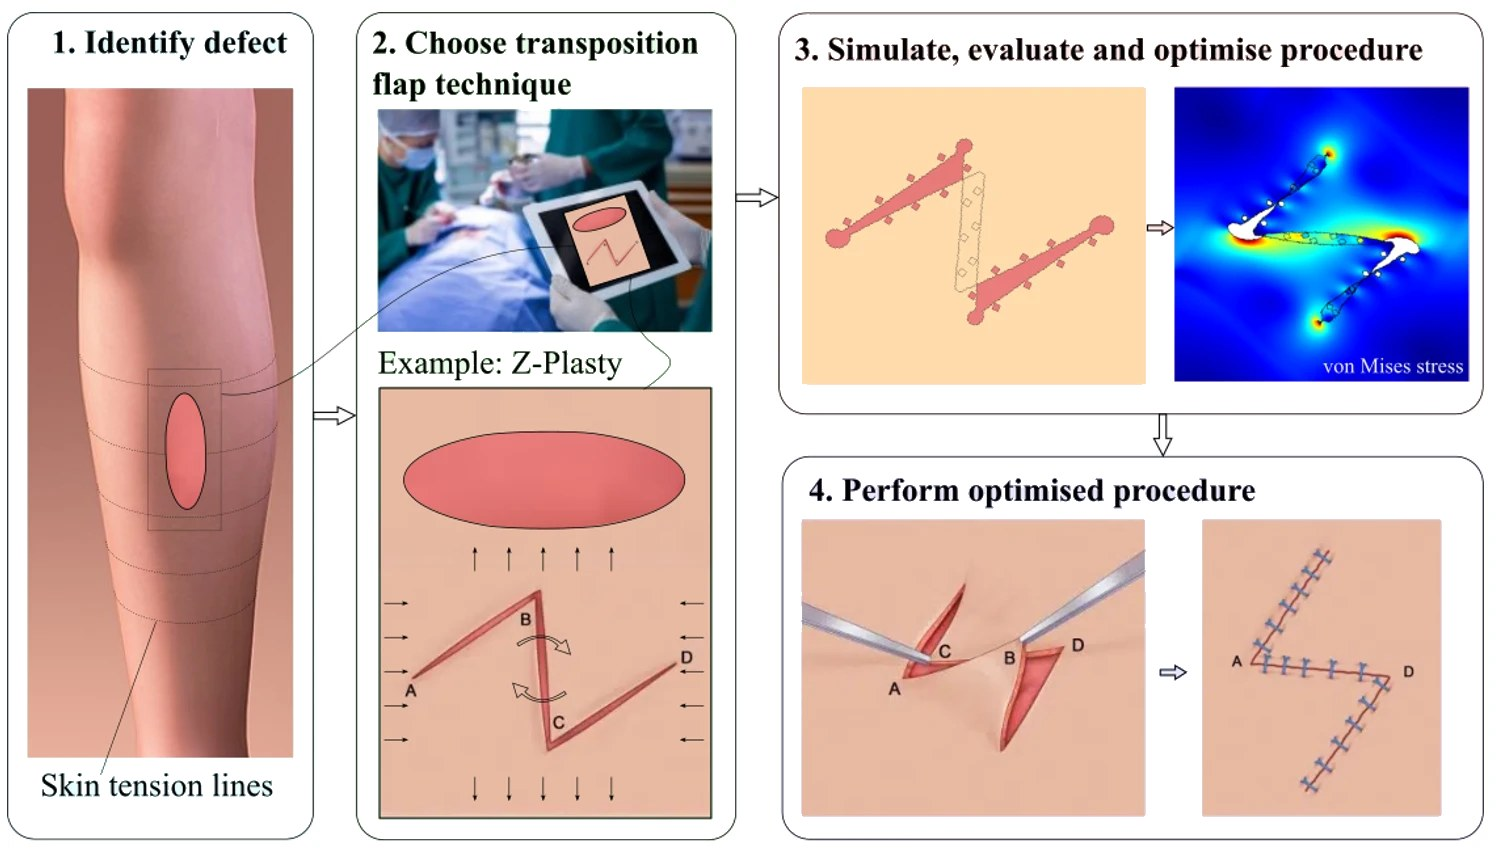
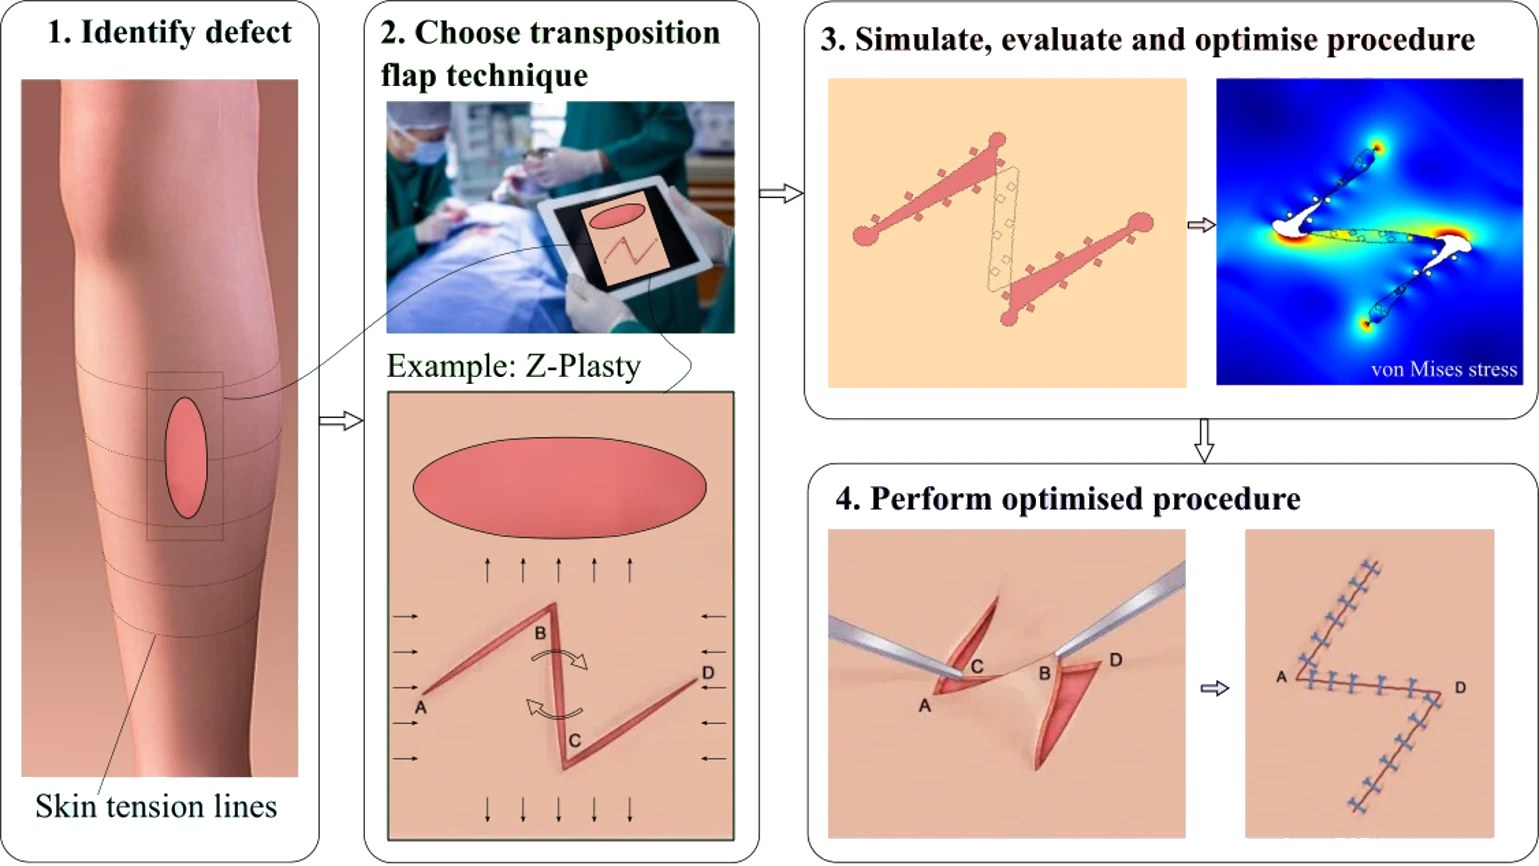
Deploy Homepage@979692c

diff --git a/js/site.js b/js/site.js
@@ -37,6 +37,15 @@ function hero(el) {
   dots.forEach((d, k) => d.onclick = () => show(k));
   $(".prev", el).onclick = () => show(cur - 1);
   $(".next", el).onclick = () => show(cur + 1);
+  // Touch: horizontal swipe changes slide (arrows only appear on hover)
+  let x0, y0;
+  el.addEventListener("touchstart", e => { x0 = e.touches[0].clientX; y0 = e.touches[0].clientY; }, { passive: true });
+  el.addEventListener("touchend", e => {
+    if (x0 == null) return;
+    const dx = e.changedTouches[0].clientX - x0, dy = e.changedTouches[0].clientY - y0;
+    if (Math.abs(dx) > 40 && Math.abs(dx) > Math.abs(dy)) show(cur + (dx < 0 ? 1 : -1));
+    x0 = null;
+  }, { passive: true });
   show(0);
 }
 

diff --git a/css/style.css b/css/style.css
@@ -33,7 +33,7 @@ img, video { display: block; width: 100%; height: auto; }
 .nav a:hover, .nav a[aria-current] { color: var(--ink); }
 
 /* Home: full-screen crossfading slideshow */
-.hero { position: relative; height: calc(100svh - var(--header)); overflow: hidden; background: var(--bg); }
+.hero { position: relative; height: calc(100svh - var(--header)); overflow: hidden; background: var(--bg); touch-action: pan-y; }
 .slide {
   position: absolute; inset: 0; opacity: 0; transition: opacity 1.4s ease;
   display: flex; align-items: center; justify-content: center;

diff --git a/js/projects.js b/js/projects.js
@@ -220,4 +220,4 @@ const PROJECTS = [
 ];
 
 // Home page slideshow: slugs in order.
-const HERO = ["giga-voxel-wing", "heat-sinks", "bone-like-infill", "hearing-instruments"];
+const HERO = ["giga-voxel-wing", "heat-sinks", "bone-like-infill", "surgical-incisions"];
